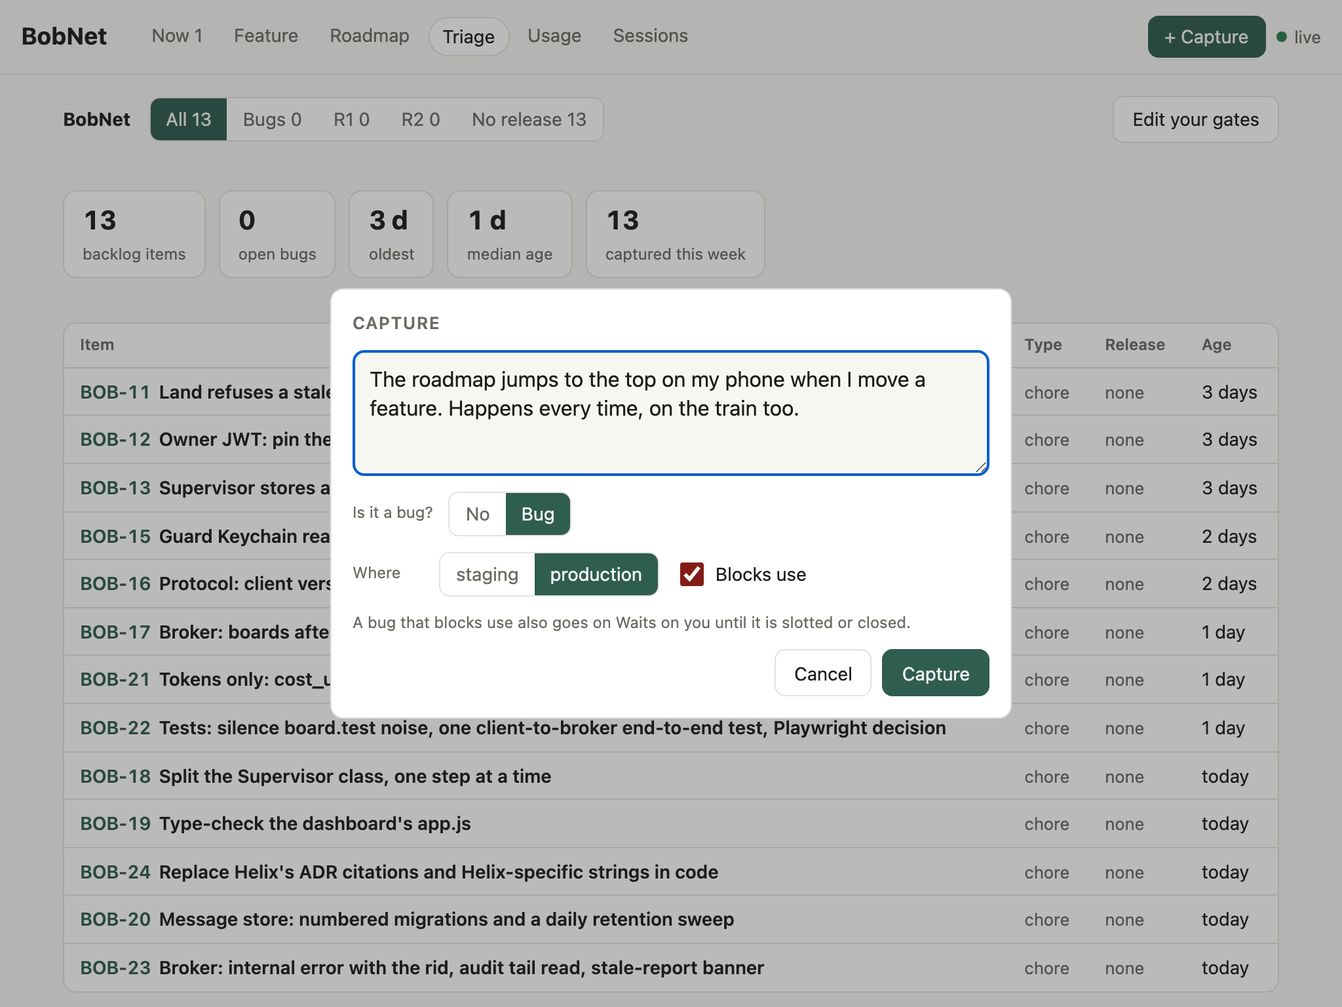
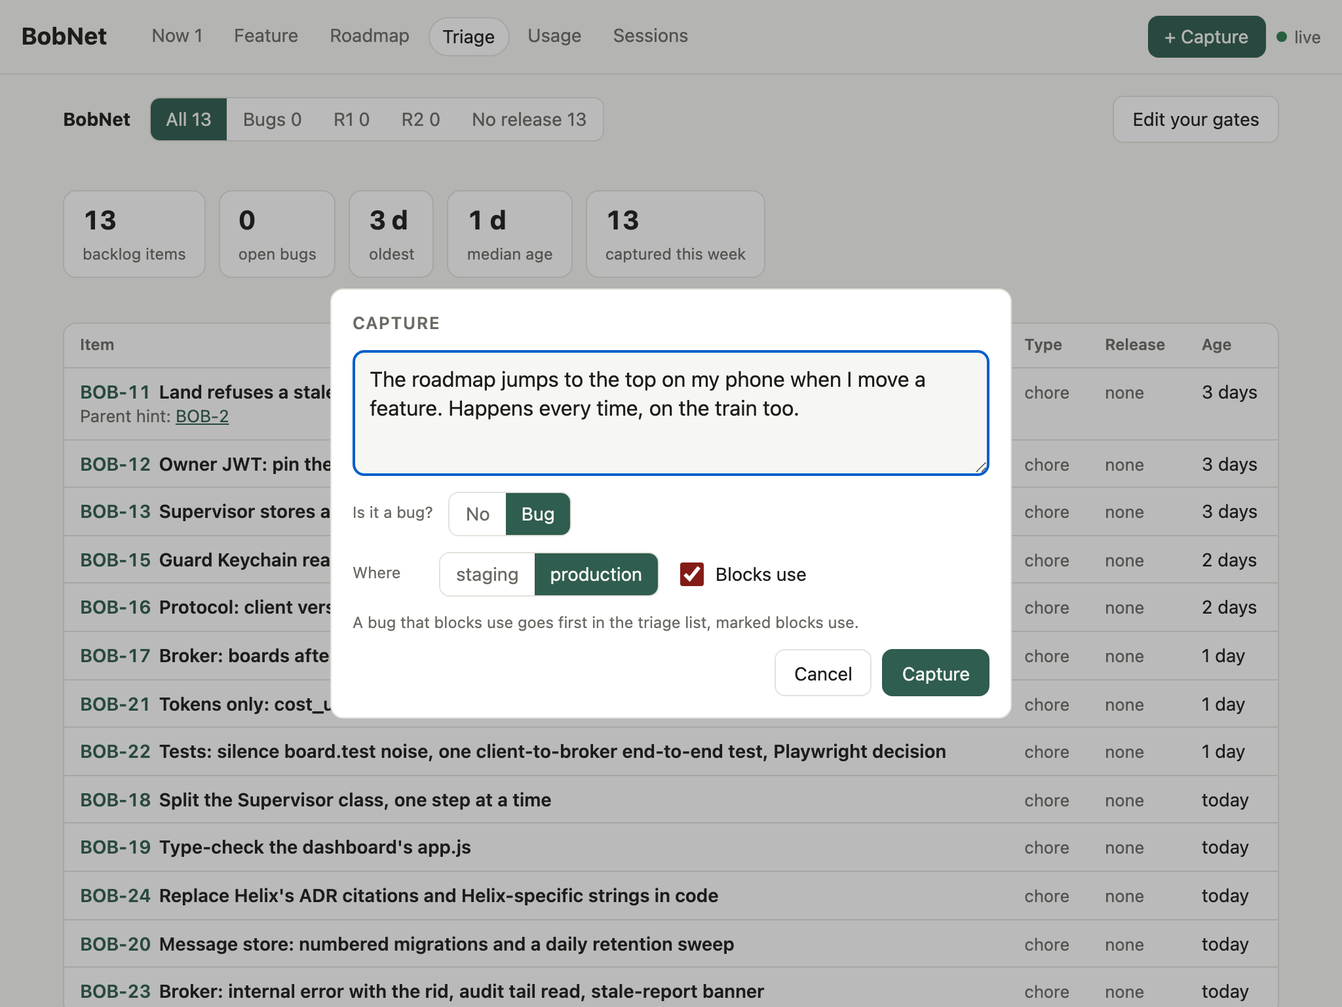
v2: BOB-8 follow-ups: Daisy's build review (design/BOB-1/spec.md "BOB-8 as built", d48b771) and Toad's review findings 1, 3, 4 (architecture/reviews/2026-11-15-bob8-triage-capture-review.md).
Daisy: a backlog item's parent hint is one muted line under Casper's words or the title, "Parent hint: BOB-7", linking #feature/<ref>; no "Waits on you" until BOB-5 ships that tab (toast "…, marked blocks use.", the dialog's note "A bug that blocks use goes first in the triage list, marked blocks use."); the release title quoted in the gate toasts (triage and roadmap).
Toad 1: a board error carries its code; a capture answered unavailable or not connected waits on this device, only a refusal (invalid, forbidden, conflict, and bad_frame, frame_too_large, secret_detected, which never go as they are) takes it off, and a refused capture comes back in the dialog as typed with why; a refused queued one does too, and the rest go once it's dealt with. Toad 3: an item in a closed release shows it under Edit, selected and disabled. Toad 4: a backlog row carries only the triage fields it has, Casper's words clipped at 280 (whole on board_get).
Tests: UI (hint lines and link, wording, unavailable kept, refusal back in the dialog, queued refusal then the rest, closed release option); board (fields omitted, words clipped). Shots: test-ui/shots/bob8-*.png, bob7-gates-moved-*.png retaken.

diff --git a/packages/broker/public/app.js b/packages/broker/public/app.js
@@ -657,7 +657,7 @@ function moveFeature(key, data, f, to, select) {
   const dest = data.releases.find((x) => x.ref === to);
   const po = poOf(svc.projects.find((x) => x.key === key));
   // A moved feature goes last in its new release; the PO orders it (notes 19).
-  gate(key, { op: "set_release", project: key, ref: f.ref, release: to }, `Moved ${f.ref} to ${dest ? dest.title : "no release"}, last in its order (${po} orders it). Recorded as yours.`,
+  gate(key, { op: "set_release", project: key, ref: f.ref, release: to }, `Moved ${f.ref} to ${dest ? `“${dest.title}”` : "no release"}, last in its order (${po} orders it). Recorded as yours.`,
     (res) => ({ op: "undo", project: key, seq: res.seq }));
 }
 
@@ -773,6 +773,11 @@ function viewTriage() {
     h("div", null, h("b", null, `${ages[Math.floor(ages.length / 2)]} d`), h("span", null, "median age")),
     h("div", null, h("b", null, ages.filter((d) => d < 7).length), h("span", null, "captured this week"))));
   const options = [...rels.filter((r) => r.status !== "closed").map((r) => [r.ref, r.title]), ["", "No release"]];
+  // An item in a closed release shows it, selected and not to be picked again (Toad, BOB-8 review 3).
+  const optionsOf = (d) => {
+    const closed = rels.find((r) => r.ref === d.release && r.status === "closed");
+    return closed ? [[closed.ref, closed.title, true], ...options] : options;
+  };
   out.push(shown.length
     ? h("div", { class: "table-wrap" }, h("table", { class: "stack triage" },
         h("thead", null, h("tr", null, h("th", null, "Item"), h("th", null, "Type"), h("th", null, "Release"), h("th", null, "Age"))),
@@ -780,11 +785,12 @@ function viewTriage() {
           cut.map((d) => h("tr", { class: capturedHere.has(`${key}:${d.ref}`) ? "is-open" : "" },
             h("td", { class: "wide keep", "data-label": "" }, h("span", { class: "id" }, d.ref), h("span", { class: "title" }, d.title),
               d.casper_words ? h("div", { class: "sub" }, `Casper: “${d.casper_words}”`) : null,
+              d.parent_hint ? h("div", { class: "sub muted" }, "Parent hint: ", h("a", { href: `#feature/${d.parent_hint}` }, d.parent_hint)) : null,
               capturedHere.has(`${key}:${d.ref}`) ? h("div", { class: "now" }, "just captured, from the dashboard") : null),
             h("td", { "data-label": "Type" }, isBug(d) ? badge("bug", d.blocks_use ? "bug · blocks use" : "bug") : h("span", { class: "muted" }, d.type)),
             h("td", { "data-label": "Release" }, edit
               ? h("select", { class: "move", "aria-label": `Release of ${d.ref}`, onchange: (e) => moveItem(key, data, d, e.target.value || null, e.target) },
-                  options.map(([v, label]) => h("option", { value: v, selected: v === (d.release ?? "") || null }, label)))
+                  optionsOf(d).map(([v, label, off]) => h("option", { value: v, selected: v === (d.release ?? "") || null, disabled: off || null }, label)))
               : d.release ?? h("span", { class: "muted" }, "none")),
             h("td", { "data-label": "Age", class: "age" }, age(d.created_at)))),
           shown.length > cut.length ? h("tr", { class: "fold" }, h("td", { colspan: 4, class: "full" }, button(`Show all ${shown.length}`, "", () => { state.triage.all = true; render(); }))) : null)))
@@ -797,7 +803,7 @@ function viewTriage() {
 async function moveItem(key, data, d, to, select) {
   if (select) select.disabled = true;
   const before = d.release ?? null;
-  const name = (ref) => (ref ? `in ${data.releases.find((r) => r.ref === ref)?.title ?? ref}` : "in no release");
+  const name = (ref) => (ref ? `in “${data.releases.find((r) => r.ref === ref)?.title ?? ref}”` : "in no release");
   const send = async (release, said, undo) => {
     try {
       const res = await boardOp({ op: "update", project: key, ref: d.ref, set: { release } }, true);
@@ -816,6 +822,9 @@ async function moveItem(key, data, d, to, select) {
 const QUEUE = "bobnet.captures";
 const queued = () => { try { return JSON.parse(localStorage.getItem(QUEUE) ?? "[]"); } catch { return []; } };
 const setQueued = (ops) => (ops.length ? localStorage.setItem(QUEUE, JSON.stringify(ops)) : localStorage.removeItem(QUEUE));
+/** The board refused these as they stand: they never go as they are, so each comes back in the dialog (Toad, BOB-8 review 1). */
+const REFUSED = new Set(["invalid", "forbidden", "conflict", "bad_frame", "frame_too_large", "secret_detected"]);
+const refused = (err) => REFUSED.has(err.code);
 
 /** The first sentence, or line, is the title; the whole text is kept as Casper's words. */
 const titleOf = (text) => text.split(/(?<=[.!?])\s|\n/)[0].trim().slice(0, 300);
@@ -830,10 +839,11 @@ function captureProject() {
   return keys.includes(state.project) ? state.project : keys[0];
 }
 
-function openCapture() {
+/** With `back`, a refused capture, its text and choices as Casper made them, and why it was refused. */
+function openCapture(back = null) {
   const dlg = $("capture");
-  let key = captureProject();
-  let bug = false, where = "staging", blocks = false;
+  let key = back?.op.project ?? captureProject();
+  let bug = back?.op.type === "bug", where = back?.op.bug_where ?? "staging", blocks = !!back?.op.blocks_use;
   const nameOf = (k) => svc.projects.find((p) => p.key === k)?.name ?? k;
   const keep = (fn) => { const v = $("cap-text")?.value ?? ""; fn(); $("cap-text").value = v; $("cap-text").focus(); };
   const draw = () => dlg.replaceChildren(h("form", { method: "dialog", onsubmit: (e) => { e.preventDefault(); submit(); } },
@@ -845,7 +855,8 @@ function openCapture() {
       h("button", { type: "button", "aria-pressed": String(bug), onclick: () => keep(() => { bug = true; draw(); }) }, "Bug"))),
     bug ? h("div", { class: "opt" }, h("span", null, "Where"), h("span", { class: "seg" }, ["staging", "production"].map((w) => h("button", { type: "button", "aria-pressed": String(where === w), onclick: () => keep(() => { where = w; draw(); }) }, w))),
       h("label", { class: "check" }, h("input", { type: "checkbox", id: "cap-blocks", checked: blocks || null, onchange: (e) => keep(() => { blocks = e.target.checked; draw(); }) }), "Blocks use")) : null,
-    h("p", { class: "note" }, bug && blocks ? "A bug that blocks use also goes on Waits on you until it is slotted or closed." : `It goes to ${nameOf(key)}'s triage list, with your words as you typed them. Release and feature are set at triage.`),
+    back ? h("p", { class: "note refused" }, `Not captured: ${back.message}`) : null,
+    h("p", { class: "note" }, bug && blocks ? "A bug that blocks use goes first in the triage list, marked blocks use." : `It goes to ${nameOf(key)}'s triage list, with your words as you typed them. Release and feature are set at triage.`),
     h("div", { class: "foot" }, button("Cancel", "", () => dlg.close()), h("button", { type: "submit", class: "primary" }, "Capture"))));
   const submit = () => {
     const text = $("cap-text").value.trim();
@@ -857,6 +868,7 @@ function openCapture() {
     });
   };
   draw();
+  if (back) $("cap-text").value = back.op.casper_words;
   if (typeof dlg.showModal === "function") dlg.showModal();
   else dlg.setAttribute("open", "");
   $("cap-text").focus();
@@ -864,7 +876,8 @@ function openCapture() {
 
 /** Never asks back: with the board away, it waits on this device and goes when the board is back. */
 async function capture(key, name, op) {
-  const also = op.blocks_use ? ", and on Waits on you" : "";
+  // Not "and on Waits on you" until BOB-5 ships that tab (spec: BOB-8 as built).
+  const also = op.blocks_use ? ", marked blocks use" : "";
   if (!ws || ws.readyState !== WebSocket.OPEN) {
     setQueued([...queued(), op]);
     return toast(`Captured. It waits on this device and goes to ${name}'s triage list when the board is back.`);
@@ -874,7 +887,10 @@ async function capture(key, name, op) {
     capturedHere.add(`${key}:${res.ref}`);
     toast(`Captured as ${res.ref} in ${name}'s triage list${also}.`);
   } catch (err) {
-    toast(err.message, false);
+    if (refused(err)) return openCapture({ op, message: err.message });
+    // The board away, or the socket: it waits here under its capture_id, which the board takes once.
+    setQueued([...queued(), op]);
+    return toast(`Captured. It waits on this device and goes to ${name}'s triage list when the board is back.`);
   }
   if (backlogs.has(key)) await loadBacklog(key);
 }
@@ -889,8 +905,13 @@ async function flushCaptures() {
       capturedHere.add(`${op.project}:${res.ref}`);
       sent++;
     } catch (err) {
-      if (!ws || ws.readyState !== WebSocket.OPEN) return;
-      toast(`A capture that waited on this device was refused: ${err.message}`, false);
+      // Still away: the rest wait for the next welcome.
+      if (!refused(err)) return;
+      setQueued(queued().filter((x) => x.capture_id !== op.capture_id));
+      // One refusal at a time in the dialog; once Casper has sent it again or let it go, the rest go.
+      if (sent) toast(`Sent ${plural(sent, "capture")} that waited on this device.`);
+      $("capture").addEventListener("close", () => flushCaptures(), { once: true });
+      return openCapture({ op, message: err.message });
     }
     setQueued(queued().filter((x) => x.capture_id !== op.capture_id));
     if (backlogs.has(op.project)) loadBacklog(op.project);
@@ -1202,7 +1223,7 @@ function scheduleRender() {
   }, 250);
 }
 
-$("capture-open").addEventListener("click", openCapture);
+$("capture-open").addEventListener("click", () => openCapture());
 $("project").addEventListener("change", (e) => {
   state.project = e.target.value;
   state.inc = null;
@@ -1260,7 +1281,7 @@ function connect() {
         break;
       case "error":
         if (sentOps.has(f.rid)) {
-          sentOps.get(f.rid).reject(new Error(f.message));
+          sentOps.get(f.rid).reject(Object.assign(new Error(f.message), { code: f.code }));
           sentOps.delete(f.rid);
           break;
         }

diff --git a/packages/broker/test-ui/dashboard.test.ts b/packages/broker/test-ui/dashboard.test.ts
@@ -512,7 +512,7 @@ describe("the roadmap from the board, and Casper's gates (BOB-7)", () => {
     expect(move!.key).toEqual(expect.any(String));
     reply(move!, { ref: "BOB-7", seq: 41 });
     await settle();
-    expect(toastEl().textContent).toContain("Moved BOB-7 to R2 Start a session, last in its order (Peach orders it). Recorded as yours.");
+    expect(toastEl().textContent).toContain("Moved BOB-7 to “R2 Start a session”, last in its order (Peach orders it). Recorded as yours.");
     await lists();
     (toastEl().querySelector("button.undo") as HTMLButtonElement).click();
     const [undo] = pending("undo");
@@ -632,7 +632,7 @@ describe("the roadmap from the board, and Casper's gates (BOB-7)", () => {
     expect(again).toMatchObject({ rid: move!.rid, key: move!.key, op: move!.op });
     reply(again!, { ref: "BOB-7", seq: 90 });
     await settle();
-    expect(toastEl().textContent).toContain("Moved BOB-7 to R2");
+    expect(toastEl().textContent).toContain("Moved BOB-7 to “R2");
     expect(toastEl().querySelector("button.undo")).not.toBeNull();
     reply(pending("projects")[0]!, { projects: [{ key: "bobnet", name: "BobNet", prefix: "BOB", draft_prefix: null, lead: "Mario@mbp-1", po: "Peach@mbp-1", repos: [] }] });
     await settle();
@@ -674,7 +674,8 @@ describe("triage and capture (BOB-8)", () => {
   });
   // 30 items, a day apart (BOB-101 is 2 days old, BOB-130 31 days); two bugs, one that blocks use; three in R1.
   const items = Array.from({ length: 30 }, (_, i) => backlogItem(i + 1, {
-    ...(i === 4 ? { type: "bug", bug_where: "production", blocks_use: true, casper_words: "Login fails on a phone. Twice today." } : {}),
+    ...(i === 4 ? { type: "bug", bug_where: "production", blocks_use: true, casper_words: "Login fails on a phone. Twice today.", parent_hint: "BOB-7" } : {}),
+    ...(i === 29 ? { parent_hint: "BOB-2" } : {}),
     ...(i === 1 ? { type: "bug" } : {}),
     ...(i < 3 ? { release: "R1" } : {}),
   }));
@@ -698,6 +699,12 @@ describe("triage and capture (BOB-8)", () => {
     expect(r).toHaveLength(25);
     expect(r.map((x) => x.querySelector(".id")!.textContent).slice(0, 4)).toEqual(["BOB-105", "BOB-102", "BOB-130", "BOB-129"]);
     expect(r[0]!.textContent).toContain("bug · blocks use");
+    // A parent hint is one muted line under Casper's words, or under the title; the ref links to its feature (spec: BOB-8 as built 1).
+    const subs = (x: Element) => [...x.querySelectorAll("td.wide .sub")].map((s) => s.textContent);
+    expect(subs(r[0]!)).toEqual(["Casper: “Login fails on a phone. Twice today.”", "Parent hint: BOB-7"]);
+    expect(subs(r[2]!)).toEqual(["Parent hint: BOB-2"]);
+    expect(r[2]!.querySelector(".sub a")!.getAttribute("href")).toBe("#feature/BOB-2");
+    expect(subs(r[1]!)).toEqual([]);
     expect(r[0]!.querySelector(".sub")!.textContent).toBe("Casper: “Login fails on a phone. Twice today.”");
     expect(r[0]!.textContent).toContain("6 days");
     expect(r[1]!.querySelector(".badge")!.textContent).toBe("bug");
@@ -741,7 +748,7 @@ describe("triage and capture (BOB-8)", () => {
     expect(move!.key).toEqual(expect.any(String));
     reply(move!, { ref: "BOB-130", seq: 200 });
     await settle();
-    expect($("toast").textContent).toContain("BOB-130 is in R2 Start a session. Recorded as yours.");
+    expect($("toast").textContent).toContain("BOB-130 is in “R2 Start a session”. Recorded as yours.");
     await lists();
     ($("toast").querySelector("button.undo") as HTMLButtonElement).click();
     const [back] = pending("update");
@@ -770,7 +777,8 @@ describe("triage and capture (BOB-8)", () => {
     const blocks = dlg.querySelector("#cap-blocks") as HTMLInputElement;
     blocks.checked = true;
     blocks.dispatchEvent(new Event("change"));
-    expect(dlg.textContent).toContain("also goes on Waits on you");
+    expect(dlg.textContent).toContain("A bug that blocks use goes first in the triage list, marked blocks use.");
+    expect(dlg.textContent).not.toContain("Waits on you");
     expect((dlg.querySelector("textarea") as HTMLTextAreaElement).value).toContain("The roadmap jumps");
     dlg.querySelector("form")!.dispatchEvent(new Event("submit", { cancelable: true }));
     const [cap] = pending("capture");
@@ -780,7 +788,7 @@ describe("triage and capture (BOB-8)", () => {
     });
     reply(cap!, { ref: "BOB-131", seq: 210, duplicate: false, dropped: [] });
     await settle();
-    expect($("toast").textContent).toBe("Captured as BOB-131 in BobNet's triage list, and on Waits on you.");
+    expect($("toast").textContent).toBe("Captured as BOB-131 in BobNet's triage list, marked blocks use.");
     await lists([backlogItem(31, { ref: "BOB-131", title: "The roadmap jumps on a phone.", type: "bug", blocks_use: true, created_at: new Date().toISOString(), casper_words: cap!.op["casper_words"] }), ...items]);
     // Bugs first, then oldest: the new bug comes after the two older ones.
     const fresh = rows()[2]!;
@@ -826,6 +834,83 @@ describe("triage and capture (BOB-8)", () => {
     await settle();
     expect(localStorage.getItem("bobnet.captures")).toBeNull();
     expect($("toast").textContent).toBe("Sent 1 capture that waited on this device.");
+    await lists();
+  });
+
+  const refuse = (f: { rid: string }, code: string, message: string) => {
+    answered.add(f.rid);
+    FakeSocket.last.frame({ t: "error", rid: f.rid, code, message });
+  };
+  const type = (text: string) => {
+    $("capture-open").click();
+    const dlg = $("capture");
+    (dlg.querySelector("textarea") as HTMLTextAreaElement).value = text;
+    dlg.querySelector("form")!.dispatchEvent(new Event("submit", { cancelable: true }));
+  };
+
+  // Toad, BOB-8 review 1: only a refusal takes a capture off this device, and its text comes back.
+  it("keeps a capture the board can't take now on this device", async () => {
+    type("Board away. Keep this.");
+    const [cap] = pending("capture");
+    refuse(cap!, "unavailable", "The board can't be reached (boom); retry");
+    await settle();
+    expect($("toast").textContent).toBe("Captured. It waits on this device and goes to BobNet's triage list when the board is back.");
+    expect(JSON.parse(localStorage.getItem("bobnet.captures")!)).toEqual([cap!.op]);
+    localStorage.removeItem("bobnet.captures");
+  });
+
+  it("gives a refused capture back in the dialog, as typed", async () => {
+    $("capture-open").click();
+    const dlg = $("capture");
+    (dlg.querySelector("textarea") as HTMLTextAreaElement).value = "Too long a thing. With words.";
+    ([...dlg.querySelectorAll("button")].find((b) => b.textContent === "Bug") as HTMLButtonElement).click();
+    dlg.querySelector("form")!.dispatchEvent(new Event("submit", { cancelable: true }));
+    const [cap] = pending("capture");
+    refuse(cap!, "invalid", "title: too long");
+    await settle();
+    expect(dlg.open).toBe(true);
+    expect((dlg.querySelector("textarea") as HTMLTextAreaElement).value).toBe("Too long a thing. With words.");
+    expect(dlg.querySelector(".note.refused")!.textContent).toBe("Not captured: title: too long");
+    expect(dlg.querySelector('[aria-pressed="true"]')!.textContent).toBe("Bug");
+    expect(localStorage.getItem("bobnet.captures")).toBeNull();
+    dlg.close();
+  });
+
+  it("gives a queued capture the board refuses back in the dialog, and sends the rest once it is dealt with", async () => {
+    const op = (n: number) => ({ op: "capture", project: "bobnet", capture_id: `00000000-0000-4000-8000-00000000000${n}`, title: `Queued ${n}.`, casper_words: `Queued ${n}. Words.`, type: "task" });
+    localStorage.setItem("bobnet.captures", JSON.stringify([op(1), op(2)]));
+    FakeSocket.last.frame({ t: "welcome", v: 1, identity: { kind: "owner", email: "owner@example.com" } });
+    reply(pending("projects")[0]!, { projects: [{ key: "bobnet", name: "BobNet", prefix: "BOB", draft_prefix: null, lead: "Mario@mbp-1", po: "Peach@mbp-1", repos: [] }] });
+    await settle();
+    const [first] = pending("capture");
+    expect(first!.op).toEqual(op(1));
+    refuse(first!, "forbidden", "not yours");
+    await settle();
+    const dlg = $("capture");
+    expect(dlg.open).toBe(true);
+    expect((dlg.querySelector("textarea") as HTMLTextAreaElement).value).toBe("Queued 1. Words.");
+    expect(JSON.parse(localStorage.getItem("bobnet.captures")!)).toEqual([op(2)]);
+    expect(pending("capture")).toHaveLength(0);
+    dlg.close();
+    await settle();
+    const [second] = pending("capture");
+    expect(second!.op).toEqual(op(2));
+    reply(second!, { ref: "BOB-134", seq: 213, duplicate: false, dropped: [] });
+    await settle();
+    expect(localStorage.getItem("bobnet.captures")).toBeNull();
+    await lists();
+  });
+
+  // Toad, BOB-8 review 3.
+  it("shows an item's closed release under Edit, selected and not to be picked", async () => {
+    await go("#triage/bobnet/edit");
+    FakeSocket.last.frame({ t: "board_changed", project: "bobnet", seq: 301, refs: ["BOB-129"] });
+    await lists(items.map((d) => (d.ref === "BOB-129" ? { ...d, release: "R3" } : d)));
+    const select = view().querySelector('select[aria-label="Release of BOB-129"]') as HTMLSelectElement;
+    expect([...select.options].map((o) => [o.value, o.disabled])).toEqual([["R3", true], ["R1", false], ["R2", false], ["", false]]);
+    expect(select.value).toBe("R3");
+    expect([...(view().querySelector('select[aria-label="Release of BOB-130"]') as HTMLSelectElement).options].map((o) => o.value)).toEqual(["R1", "R2", ""]);
+    await go("#triage/bobnet");
     await lists();
   });
 

diff --git a/packages/broker/test/board.test.ts b/packages/broker/test/board.test.ts
@@ -747,11 +747,19 @@ describe("triage (capture 3-5, BOB-8)", () => {
     const { r1, f1 } = await helix();
     const bug = await ok(agent("Data"), { op: "capture", project: "helix", capture_id: uuid(11), title: "Login fails", type: "bug", bug_where: "production", blocks_use: true, casper_words: "can't log in" });
     await ok(owner, { op: "create", project: "helix", kind: "backlog", type: "task", title: "Hinted", parent_hint: f1, release: r1 });
+    const long = "x".repeat(2000);
+    const wordy = await ok(agent("Data"), { op: "capture", project: "helix", capture_id: uuid(12), title: "Long", casper_words: long });
     const rows = (await ok(owner, { op: "list", project: "helix", of: "backlog" })).items!;
-    expect(rows).toHaveLength(2);
-    expect(rows[0]).toMatchObject({ ref: bug.ref, type: "bug", captured_by: "Data@mbp-1", casper_words: "can't log in", bug_where: "production", blocks_use: true, parent_hint: null, release: null });
+    expect(rows).toHaveLength(3);
+    expect(rows[0]).toMatchObject({ ref: bug.ref, type: "bug", captured_by: "Data@mbp-1", casper_words: "can't log in", bug_where: "production", blocks_use: true, release: null });
     expect(rows[0]!.created_at).toMatch(/^\d{4}-/);
-    expect(rows[1]).toMatchObject({ title: "Hinted", captured_by: null, casper_words: null, blocks_use: false, parent_hint: f1, release: r1 });
+    // A row carries only the triage fields it has (Toad, BOB-8 review 4).
+    expect(rows[0]).not.toHaveProperty("parent_hint");
+    expect(rows[1]).toMatchObject({ title: "Hinted", parent_hint: f1, release: r1 });
+    for (const k of ["captured_by", "casper_words", "bug_where", "blocks_use"]) expect(rows[1]).not.toHaveProperty(k);
+    // Casper's words are clipped on a row and whole on the item.
+    expect(rows[2]!.casper_words).toBe(`${"x".repeat(279)}…`);
+    expect((await item(wordy.ref!)).casper_words).toBe(long);
     // A feature's or task's row carries no triage fields.
     const features = (await ok(owner, { op: "list", project: "helix", of: "features" })).items!;
     expect(features[0]).not.toHaveProperty("casper_words");

diff --git a/packages/broker/public/style.css b/packages/broker/public/style.css
@@ -130,6 +130,7 @@ tr.pick:hover td { background: var(--bg); }
 tr.pick[aria-selected="true"] td { background: var(--bg); }
 tr.pick[aria-selected="true"] td:first-child { box-shadow: inset 3px 0 0 var(--accent); }
 td .sub { color: var(--muted); font-size: 13px; }
+td .sub a { color: var(--accent); }
 .ac { margin: 0; padding-left: 20px; display: grid; gap: 4px; font-size: 14px; }
 .banner { background: var(--surface); border: 1px solid var(--line); border-left: 3px solid var(--warn); border-radius: var(--radius); padding: 10px 12px; display: flex; flex-wrap: wrap; gap: 4px 14px; align-items: baseline; }
 .banner.idle { border-left-color: var(--idle); }
@@ -292,6 +293,7 @@ table.triage td.age { white-space: nowrap; }
 .seg.filters button { white-space: nowrap; }
 .totals .hot { border-left: 3px solid var(--bad); }
 .totals .hot b { color: var(--bad); }
+dialog .note.refused { color: var(--bad); font-size: 13px; }
 .dest { display: grid; gap: 8px; margin: 0; padding: 0; list-style: none; }
 .dest li { display: grid; grid-template-columns: minmax(0, 1fr) auto; gap: 8px; align-items: center; font-size: 14px; padding: 6px 0; border-top: 1px solid var(--line); }
 .dest select { font: inherit; font-size: 14px; padding: 4px 8px; border-radius: 8px; border: 1px solid var(--line); background: var(--bg); color: var(--text); max-width: 50vw; }

diff --git a/packages/broker/src/board/store.ts b/packages/broker/src/board/store.ts
@@ -2268,8 +2268,21 @@ function summary(r: SummaryRow): ItemSummary {
     open_since: r.open_since,
     archived_at: r.archived_at,
     created_at: r.created_at,
-    ...(r.kind === "backlog"
-      ? { captured_by: r.captured_by, casper_words: r.casper_words, bug_where: r.bug_where, blocks_use: r.blocks_use === 1, parent_hint: r.parent_hint_ref }
-      : {}),
+    ...(r.kind === "backlog" ? triage(r) : {}),
   };
+}
+
+/** Casper's words on a list row, clipped; board_get has them whole (Toad, BOB-8 review 4). */
+export const WORDS_CLIP = 280;
+
+/** A backlog row's triage fields, those it has: a page of rows is paid for in tokens. */
+function triage(r: SummaryRow): Partial<ItemSummary> {
+  const words = r.casper_words && r.casper_words.length > WORDS_CLIP ? `${r.casper_words.slice(0, WORDS_CLIP - 1)}…` : r.casper_words;
+  const out: Partial<ItemSummary> = {};
+  if (r.captured_by) out.captured_by = r.captured_by;
+  if (words) out.casper_words = words;
+  if (r.bug_where) out.bug_where = r.bug_where;
+  if (r.blocks_use === 1) out.blocks_use = true;
+  if (r.parent_hint_ref) out.parent_hint = r.parent_hint_ref;
+  return out;
 }
